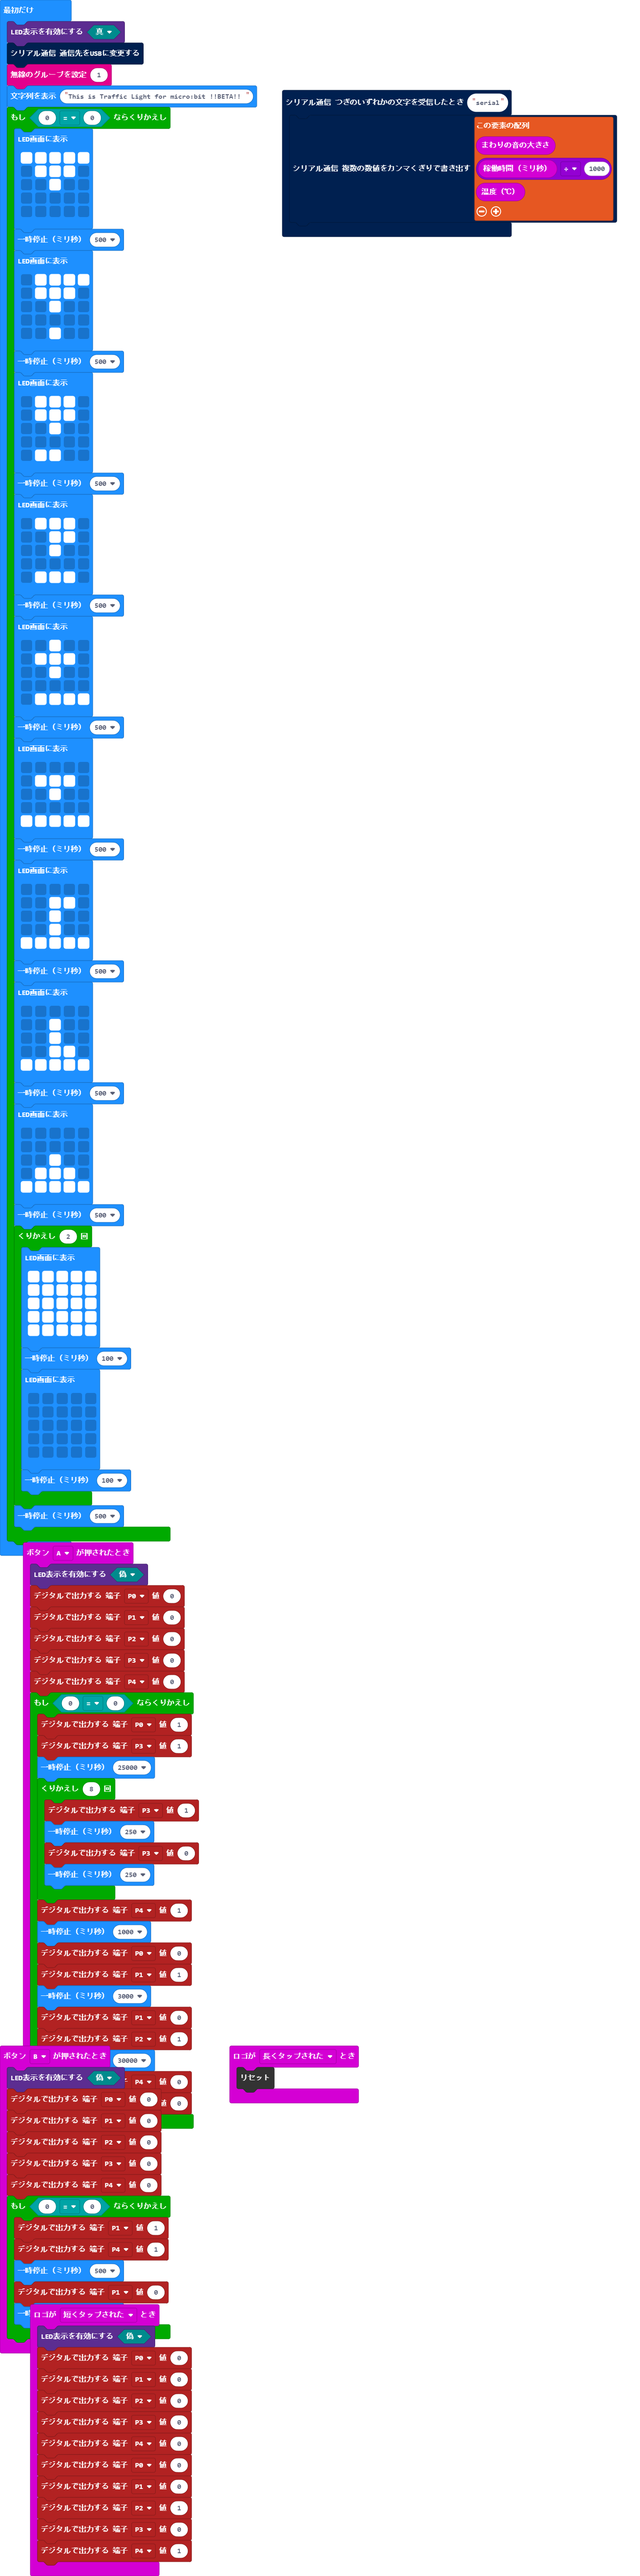
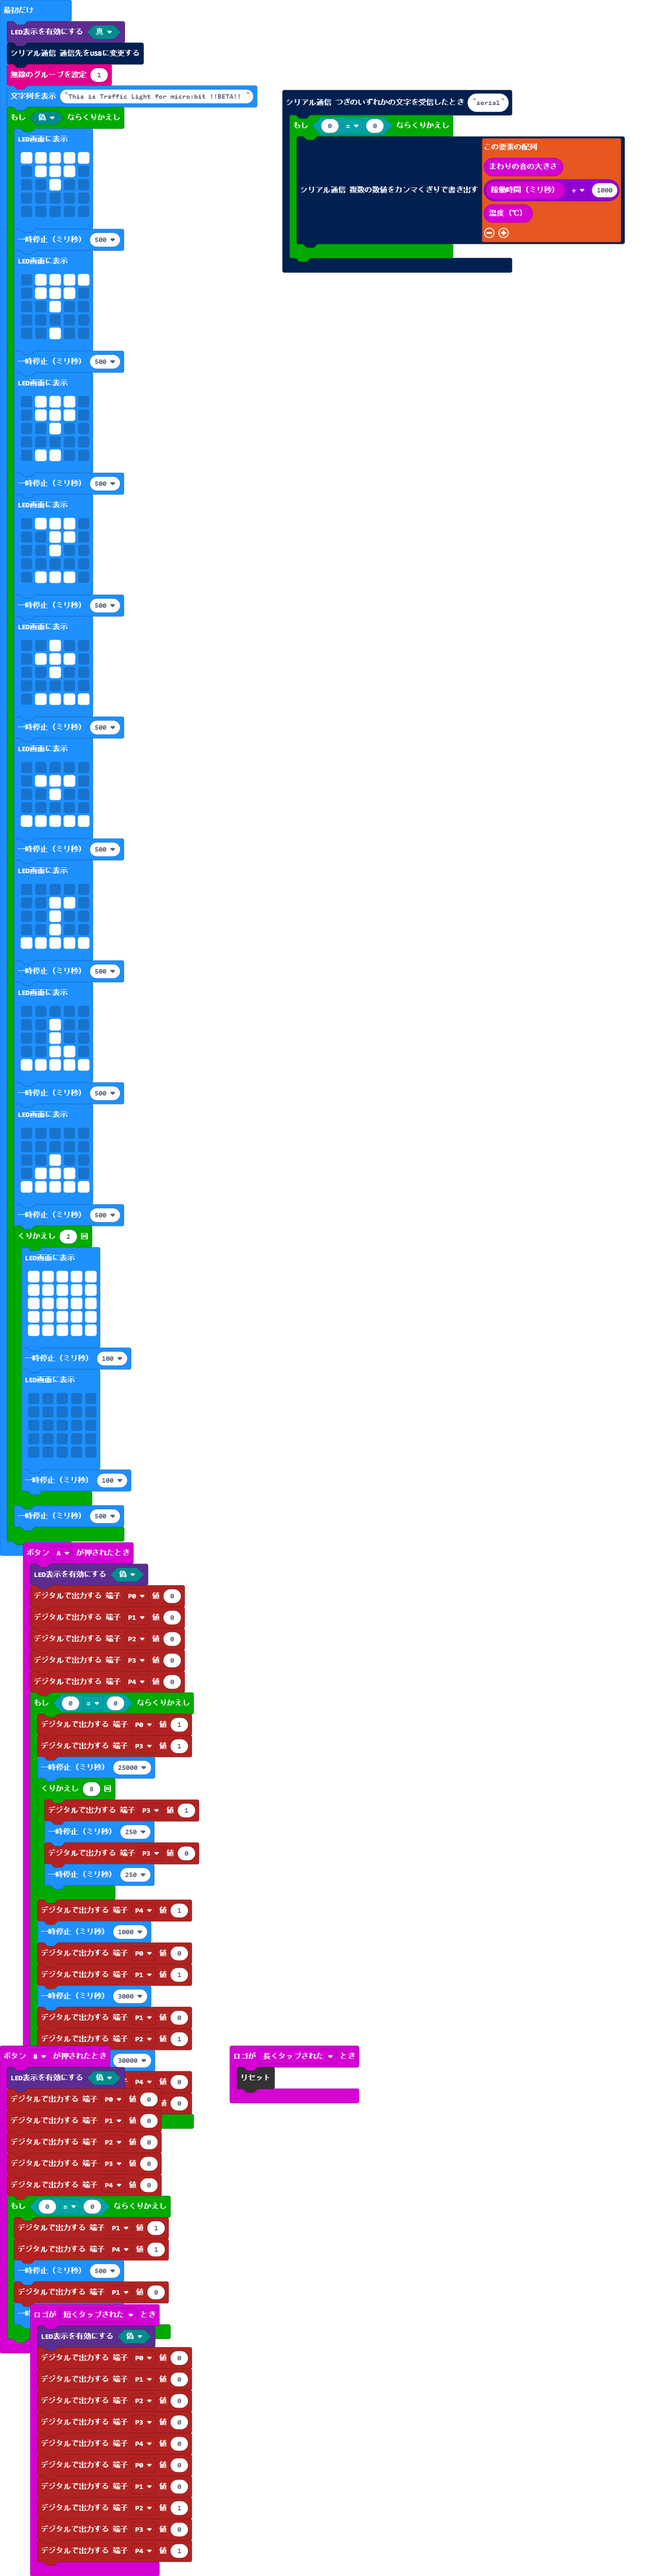
更新 main.blocks, main.ts

diff --git a/main.ts b/main.ts
@@ -31,11 +31,13 @@ input.onButtonPressed(Button.A, function () {
     }
 })
 serial.onDataReceived("serial", function () {
-    serial.writeNumbers([
-    input.soundLevel(),
-    input.runningTime() / 1000,
-    input.temperature()
-    ])
+    while (0 == 0) {
+        serial.writeNumbers([
+        input.soundLevel(),
+        input.runningTime() / 1000,
+        input.temperature()
+        ])
+    }
 })
 input.onButtonPressed(Button.B, function () {
     led.enable(false)
@@ -69,7 +71,7 @@ led.enable(true)
 serial.redirectToUSB()
 radio.setGroup(1)
 basic.showString("This is Traffic Light for micro:bit !!BETA!! ")
-while (0 == 0) {
+while (false) {
     basic.showLeds(`
         # # # # #
         . # # # .
